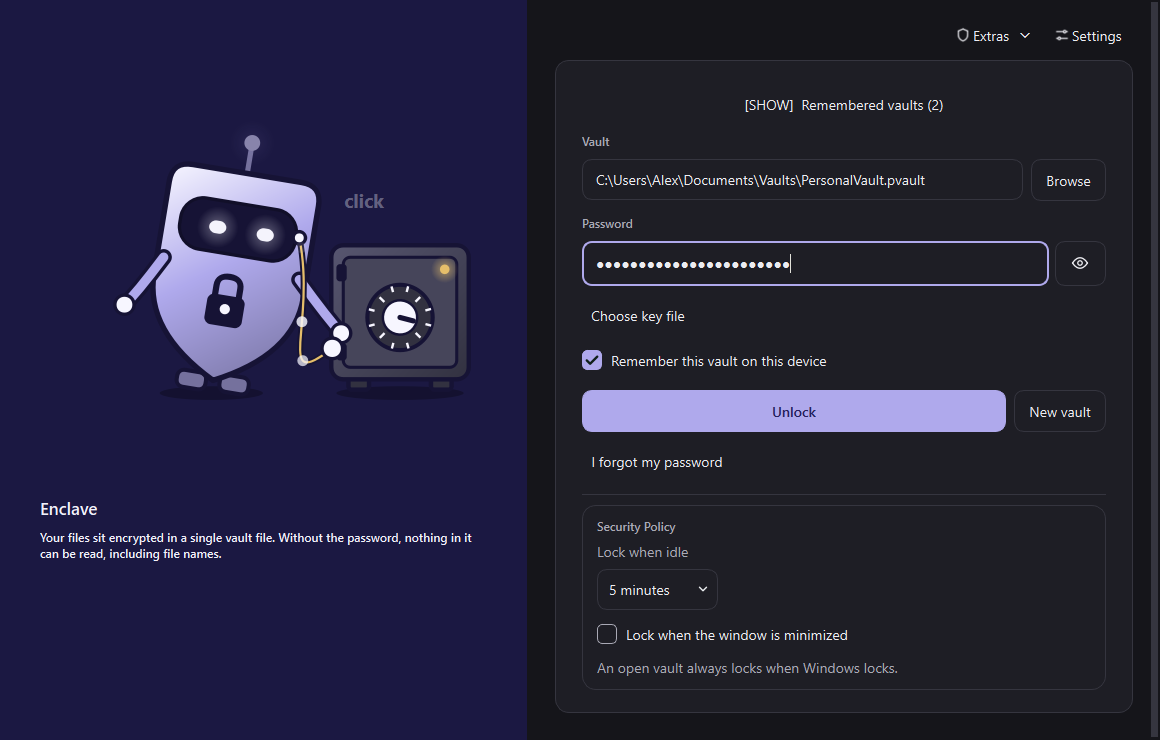
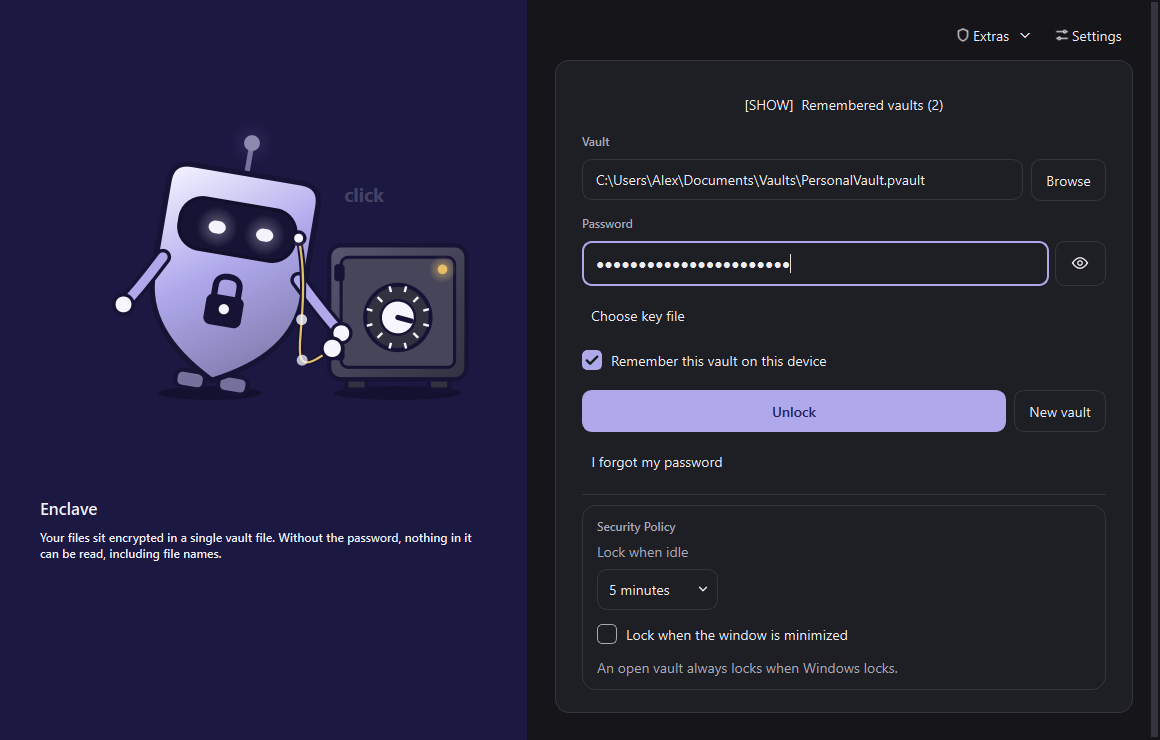
fix(ui): fix overflow in password manager and dialogs, add layout regression tests, bump to 2.0.1
- Dialogs enforce minimum width of their content
- Password inspector: breakable password, elided url/username, icon-only TOTP copy
- Add test_enclave_layout.py and test_enclave_layout_matrix.py (fast set; ENCLAVE_FULL_MATRIX=1 for full)
- Refresh README screenshots
- Version 2.0.1

diff --git a/test_enclave_layout_matrix.py b/test_enclave_layout_matrix.py
@@ -1,0 +1,202 @@
+"""
+Enclave - Yerleşim matris testleri: tüm tasarım stilleri, renkler, açık/koyu mod, diller ve pencere boyutları.
+Çalıştırma: python -m unittest test_enclave_layout_matrix -v
+"""
+
+import os
+import shutil
+import tempfile
+import unittest
+
+from test_enclave_layout import app, find_problems  # noqa: E402  (ortam ayarlarını da yapar)
+
+import enclave_app.i18n as i18n
+from enclave_core import CustomVaultEngine as E
+from enclave_app import designs
+from enclave_app.common import Theme
+from enclave_app.dialogs import CreateVaultDialog, SettingsDialog
+from enclave_app.extras import ShaDialog, StripCarrierDialog, WrapCarrierDialog
+from enclave_app.pwd_dialogs import (
+    EntryEditorDialog, HealthAuditDialog, ImportExportDialog, PasswordGeneratorDialog,
+)
+from enclave_app.pwd_engine import PasswordEntry, PasswordStore
+from enclave_app.session import VaultSession
+from enclave_app.window import VaultWindow
+from enclave_app.workspace import Workspace
+
+# Tam matris (tüm stiller x 4 renk/mod) çok yavaş: ENCLAVE_FULL_MATRIX=1 ile açılır. Varsayılan hızlı kümedir.
+FULL = os.environ.get("ENCLAVE_FULL_MATRIX") == "1"
+COMBOS = (("mor", True), ("mor", False), ("turuncu", True), ("turkuaz", False)) if FULL else (("mor", True),)
+STYLE_KEYS = tuple(designs.STYLES) if FULL else ("kart",)
+
+
+class MatrixLayoutTests(unittest.TestCase):
+    @classmethod
+    def setUpClass(cls):
+        cls.tmp = tempfile.mkdtemp(prefix="pvault_layout2_")
+        path = os.path.join(cls.tmp, "matrix.pvault")
+        E.create_vault(path, "LayoutPassword123!")
+        plan = []
+        names = [
+            "Çok_uzun_bir_dosya_adı_Müşteri_Sözleşmeleri_2026_Final_Sürüm_v12_İmzalı.docx",
+            "report.pdf", "photo.png", "song.mp3", "clip.mp4", "dump.sql", "k.txt",
+        ]
+        for name in names:
+            src = os.path.join(cls.tmp, name)
+            with open(src, "wb") as handle:
+                handle.write(b"x" * 3000)
+            plan.append((src, name))
+        cls.session = VaultSession(path)
+        cls.session.unlock("LayoutPassword123!")
+        cls.session.import_files(plan)
+        cls.session.create_folder("", "Belgeler ve Sözleşmeler Arşivi")
+        cls.store = PasswordStore(cls.session)
+        for index in range(8):
+            cls.store.add(PasswordEntry(
+                title=f"Kayıt {index} " + "uzun başlık " * 4, type=("login", "card", "note", "key")[index % 4],
+                username="kullanici@ornek-alan-adi.example.com", password="Aa1!aA1!aA1!aA1!x",
+                url="https://example.com/yol", totp_secret="JBSWY3DPEHPK3PXP" if index % 2 else "",
+                favorite=index % 3 == 0, tags=["a", "b"], notes="not " * 30,
+            ))
+
+    @classmethod
+    def tearDownClass(cls):
+        cls.session.close()
+        shutil.rmtree(cls.tmp, ignore_errors=True)
+        i18n.set_language("tr")
+        app.setStyleSheet("")
+
+    @staticmethod
+    def _themed(design, style, dark):
+        theme = Theme(designs.get_design(design, style), dark)
+        app.setStyleSheet(designs.build_stylesheet(theme.design, theme.dark))
+        return theme
+
+    def _run(self, make, sizes, langs=("tr", "en")):
+        failures = []
+        for style in STYLE_KEYS:
+            for design, dark in COMBOS:
+                theme = self._themed(design, style, dark)
+                for lang in langs:
+                    i18n.set_language(lang)
+                    widget = make(theme)
+                    try:
+                        for size in sizes:
+                            widget.resize(*size)
+                            widget.show()
+                            app.processEvents()
+                            for problem in find_problems(widget):
+                                failures.append(f"[{style}/{design}/{'koyu' if dark else 'açık'}/{lang}/{size}] {problem}")
+                    finally:
+                        widget.close()
+                        widget.deleteLater()
+        unique = sorted({f.split("] ", 1)[1] for f in failures})
+        self.assertEqual(
+            failures, [],
+            f"{len(failures)} sorun, {len(unique)} farklı:\n" + "\n".join(unique[:40]) + "\n\nİlk örnekler:\n" + "\n".join(failures[:15]),
+        )
+
+    def test_workspace_files_all_styles(self):
+        self._run(lambda theme: Workspace(self.session, theme), [(760, 540), (1160, 740)])
+
+    def test_workspace_selected_file(self):
+        def make(theme):
+            ws = Workspace(self.session, theme)
+            ws.details.show_file(self.session.files[0])
+            return ws
+        self._run(make, [(900, 600), (1160, 740)])
+
+    def test_workspace_many_selected(self):
+        def make(theme):
+            ws = Workspace(self.session, theme)
+            ws.details.show_many(5, 123456)
+            return ws
+        self._run(make, [(900, 600)])
+
+    def test_workspace_folder_selected(self):
+        def make(theme):
+            ws = Workspace(self.session, theme)
+            ws.details.show_folder("Belgeler ve Sözleşmeler Arşivi", 3, 4096)
+            return ws
+        self._run(make, [(900, 600)])
+
+    def test_workspace_passwords_all_styles(self):
+        def make(theme):
+            ws = Workspace(self.session, theme)
+            ws.set_mode("passwords")
+            ws.pwd_view.refresh()
+            return ws
+        self._run(make, [(900, 600), (1160, 740)])
+
+    def test_password_filters_and_trash(self):
+        theme = self._themed("mor", "kart", True)
+        failures = []
+        for lang in ("tr", "en"):
+            i18n.set_language(lang)
+            ws = Workspace(self.session, theme)
+            ws.set_mode("passwords")
+            view = ws.pwd_view
+            self.store.delete(self.store.all()[0].id)
+            view.refresh()
+            actions = (
+                lambda: view._select_filter("trash"), lambda: view._select_filter("totp"),
+                lambda: view._select_filter("favorites"), lambda: view._select_category("card"),
+                lambda: view._select_category("note"), lambda: view._select_category(None),
+            )
+            for action in actions:
+                action()
+                for size in ((900, 600), (1160, 740)):
+                    ws.resize(*size)
+                    ws.show()
+                    app.processEvents()
+                    failures += [f"[{lang}/{size}] {p}" for p in find_problems(ws)]
+            ws.close()
+        self.assertEqual(failures, [], "\n".join(failures[:30]))
+
+    def test_unlock_all_styles(self):
+        self._run(lambda theme: VaultWindow(""), [(560, 520), (800, 600), (1160, 740), (1600, 900)])
+
+    def test_unlock_code_step_and_error(self):
+        self._themed("mor", "kart", True)
+        failures = []
+        for lang in ("tr", "en"):
+            i18n.set_language(lang)
+            win = VaultWindow("")
+            for size in ((560, 520), (800, 600), (1160, 740)):
+                win.resize(*size)
+                win.show()
+                page = win.unlock_page
+                page._show_error("Parola yanlış. " * 6)
+                app.processEvents()
+                failures += [f"[{lang}/{size}/hata] {p}" for p in find_problems(win)]
+                page._show_code_step()
+                app.processEvents()
+                failures += [f"[{lang}/{size}/kod] {p}" for p in find_problems(win)]
+                page.form_stack.setCurrentIndex(0)
+            win.close()
+        self.assertEqual(failures, [], "\n".join(failures[:30]))
+
+    def test_dialogs_resized_small(self):
+        theme = self._themed("mor", "kart", True)
+        factories = [
+            lambda: SettingsDialog(theme, self.session), lambda: CreateVaultDialog(theme),
+            lambda: PasswordGeneratorDialog(theme), lambda: HealthAuditDialog(theme, self.store),
+            lambda: ImportExportDialog(theme, self.store), lambda: EntryEditorDialog(theme, self.store),
+            lambda: WrapCarrierDialog(theme), lambda: StripCarrierDialog(theme), lambda: ShaDialog(theme, True),
+        ]
+        failures = []
+        for lang in ("tr", "en"):
+            i18n.set_language(lang)
+            for factory in factories:
+                dialog = factory()
+                for size in ((520, 400), (640, 480), (900, 700)):
+                    dialog.resize(*size)
+                    dialog.show()
+                    app.processEvents()
+                    failures += [f"[{lang}/{type(dialog).__name__}/{size}] {p}" for p in find_problems(dialog)]
+                dialog.close()
+        self.assertEqual(failures, [], "\n".join(failures[:40]))
+
+
+if __name__ == "__main__":
+    unittest.main()

diff --git a/enclave_app/pwd_view.py b/enclave_app/pwd_view.py
@@ -33,6 +33,10 @@ from .pwd_engine import (
     evaluate_password, get_live_totp
 )
 
+def _breakable(text: str) -> str:
+    """Boşluksuz uzun metnin dar alanda satır kırabilmesi için karakterler arasına sıfır genişlikli boşluk koyar."""
+    return "".join(text)
+
 class EntryListItemWidget(QFrame):
     """Orta sütundaki liste öğesi için kart bileşeni."""
 
@@ -210,6 +214,7 @@ class PasswordInspector(QWidget):
         scroll = QScrollArea()
         scroll.setWidgetResizable(True)
         scroll.setFrameShape(QFrame.Shape.NoFrame)
+        scroll.setHorizontalScrollBarPolicy(Qt.ScrollBarPolicy.ScrollBarAlwaysOff)
         content = QWidget()
         self.fields_layout = QVBoxLayout(content)
         self.fields_layout.setContentsMargins(4, 4, 4, 4)
@@ -245,11 +250,13 @@ class PasswordInspector(QWidget):
             self.del_btn.setIcon(self.theme.icon("refresh"))
             self.purge_btn.show()
             self.edit_btn.setEnabled(False)
+            self.edit_btn.hide()
         else:
             self.del_btn.setText(tr("Sil"))
             self.del_btn.setIcon(self.theme.icon("trash"))
             self.purge_btn.hide()
             self.edit_btn.setEnabled(True)
+            self.edit_btn.show()
 
         self._clear_fields()
         self._populate_fields(entry)
@@ -361,8 +368,11 @@ class PasswordInspector(QWidget):
         v = QVBoxLayout()
         v.setSpacing(2)
         v.addWidget(label(title, "Eyebrow"))
-        val_lbl = label(display_val, wrap=True)
-        val_lbl.setTextInteractionFlags(Qt.TextInteractionFlag.TextSelectableByMouse)
+        if "\n" in display_val:
+            val_lbl = label(display_val, wrap=True)
+            val_lbl.setTextInteractionFlags(Qt.TextInteractionFlag.TextSelectableByMouse)
+        else:
+            val_lbl = ElidedLabel(display_val)
         val_lbl.setStyleSheet("font-size: 14px; font-weight: 500;")
         v.addWidget(val_lbl)
         c_l.addLayout(v, 1)
@@ -396,9 +406,9 @@ class PasswordInspector(QWidget):
         mid = QHBoxLayout()
         mid.setSpacing(10)
 
-        self.pwd_label = label("••••••••••••••••", wrap=False)
+        self.pwd_label = label(_breakable("•" * 16), wrap=True)
         self.pwd_label.setStyleSheet("font-family: monospace; font-size: 16px; font-weight: 600;")
-        self.pwd_label.setTextInteractionFlags(Qt.TextInteractionFlag.TextSelectableByMouse)
+        self.pwd_label.setSizePolicy(QSizePolicy.Policy.Ignored, QSizePolicy.Policy.Preferred)
         mid.addWidget(self.pwd_label, 1)
 
         self.eye_btn = tool_button(
@@ -438,10 +448,10 @@ class PasswordInspector(QWidget):
             return
         self._pwd_revealed = not self._pwd_revealed
         if self._pwd_revealed:
-            self.pwd_label.setText(self.entry.password)
+            self.pwd_label.setText(_breakable(self.entry.password))
             self.eye_btn.setIcon(self.theme.icon("eye-off"))
         else:
-            self.pwd_label.setText("••••••••••••••••")
+            self.pwd_label.setText(_breakable("•" * 16))
             self.eye_btn.setIcon(self.theme.icon("eye"))
 
     def _totp_card(self, secret: str) -> QWidget:
@@ -453,7 +463,7 @@ class PasswordInspector(QWidget):
         c_l.setSpacing(8)
 
         head = QHBoxLayout()
-        head.addWidget(label(tr("İki Adımlı Doğrulama Kodu (TOTP)"), "Eyebrow", wrap=False))
+        head.addWidget(ElidedLabel(tr("İki Adımlı Doğrulama Kodu (TOTP)"), "Eyebrow"), 1)
         head.addStretch(1)
         c_l.addLayout(head)
 
@@ -465,7 +475,7 @@ class PasswordInspector(QWidget):
         token_row.addWidget(self.totp_lbl, 1)
 
         self.totp_copy_btn = tool_button(
-            tr("Kopyala"), self.theme.icon("clock"), self._copy_live_totp, tr("2FA Kodunu Kopyala")
+            "", self.theme.icon("copy"), self._copy_live_totp, tr("2FA Kodunu Kopyala")
         )
         token_row.addWidget(self.totp_copy_btn)
         c_l.addLayout(token_row)
@@ -654,7 +664,7 @@ class PasswordView(QWidget):
         p = self.theme.palette
         pane = QFrame()
         pane.setObjectName("Panel")
-        pane.setMinimumWidth(260)
+        pane.setMinimumWidth(300)
         layout = QVBoxLayout(pane)
         layout.setContentsMargins(12, 14, 12, 10)
         layout.setSpacing(10)

diff --git a/test_enclave_layout.py b/test_enclave_layout.py
@@ -19,7 +19,7 @@ os.environ["APPDATA"] = _CONFIG_HOME
 os.environ["XDG_CONFIG_HOME"] = _CONFIG_HOME
 
 from PyQt6.QtWidgets import (
-    QAbstractScrollArea, QApplication, QCheckBox, QLabel, QPushButton, QScrollArea, QToolButton, QWidget,
+    QAbstractScrollArea, QApplication, QCheckBox, QComboBox, QLabel, QLineEdit, QPushButton, QScrollArea, QToolButton, QWidget,
 )
 
 import enclave_app.i18n as i18n
@@ -63,7 +63,8 @@ def _text(widget: QWidget) -> str:
 def find_problems(root: QWidget) -> list:
     """Kök pencere içindeki yerleşim sorunlarını metin olarak döndürür."""
     problems = []
-    app.processEvents()
+    for _ in range(3):
+        app.processEvents()
     for widget in root.findChildren(QWidget):
         if not widget.isVisibleTo(root) or widget.width() <= 0:
             continue
@@ -85,6 +86,9 @@ def find_problems(root: QWidget) -> list:
             hint = widget.sizeHint().width()
             if hint > widget.width() + TOLERANCE and widget.minimumSizeHint().width() > widget.width() + TOLERANCE:
                 problems.append(f"buton metni kırpılıyor: {name} gerek={hint} var={widget.width()}")
+        elif isinstance(widget, (QLineEdit, QComboBox)) and widget.isEnabled():
+            if widget.height() + TOLERANCE < widget.minimumSizeHint().height():
+                problems.append(f"alan yüksekliği yetersiz: {name} gerek={widget.minimumSizeHint().height()} var={widget.height()}")
         elif isinstance(widget, QCheckBox) and _text(widget):
             if widget.sizeHint().width() > widget.width() + TOLERANCE:
                 problems.append(f"onay kutusu metni kırpılıyor: {name} gerek={widget.sizeHint().width()} var={widget.width()}")

diff --git a/enclave_app/dialogs.py b/enclave_app/dialogs.py
@@ -99,7 +99,12 @@ class DialogBase(QDialog):
         height = max(height, need + chrome + 4)
         if screen:
             height = min(height, screen.height() - 60)
-        self.resize(width, height)
+        # İçeriğin en küçük genişliğinin altına inilirse yatay kaydırma kapalı olduğundan içerik kırpılır
+        floor = self.content.minimumSizeHint().width() + 16
+        if screen:
+            floor = min(floor, screen.width() - 40)
+        self.setMinimumWidth(floor)
+        self.resize(max(width, floor), height)
 
 class LoaderItemDelegate(QStyledItemDelegate):
     """Yükleme animasyonu listesinde her seçeneğin yanında kendi animasyonunu oynatır."""

diff --git a/main.py b/main.py
@@ -253,7 +253,7 @@ def main():
     from enclave_app.common import app_icon
     app.setApplicationName("Enclave")
     app.setApplicationDisplayName("Enclave")
-    app.setApplicationVersion("2.0")
+    app.setApplicationVersion("2.0.1")
     app.setWindowIcon(app_icon())
 
     if use_windows_tools:

diff --git a/config.py b/config.py
@@ -11,7 +11,7 @@ from pathlib import Path
 from typing import Optional
 from logger import BASE_DIR, USER_DATA_DIR
 
-APP_VERSION = "2.0"
+APP_VERSION = "2.0.1"
 CONFIG_FILE = USER_DATA_DIR / "config.json"
 LEGACY_CONFIG_FILE = BASE_DIR / "config.json"
 

diff --git a/build_exe.py b/build_exe.py
@@ -14,7 +14,7 @@ from pathlib import Path
 try:
     from config import APP_VERSION
 except Exception:
-    APP_VERSION = "2.0"
+    APP_VERSION = "2.0.1"
 
 TARGET_EXE_NAME = "Enclave.exe"
 
